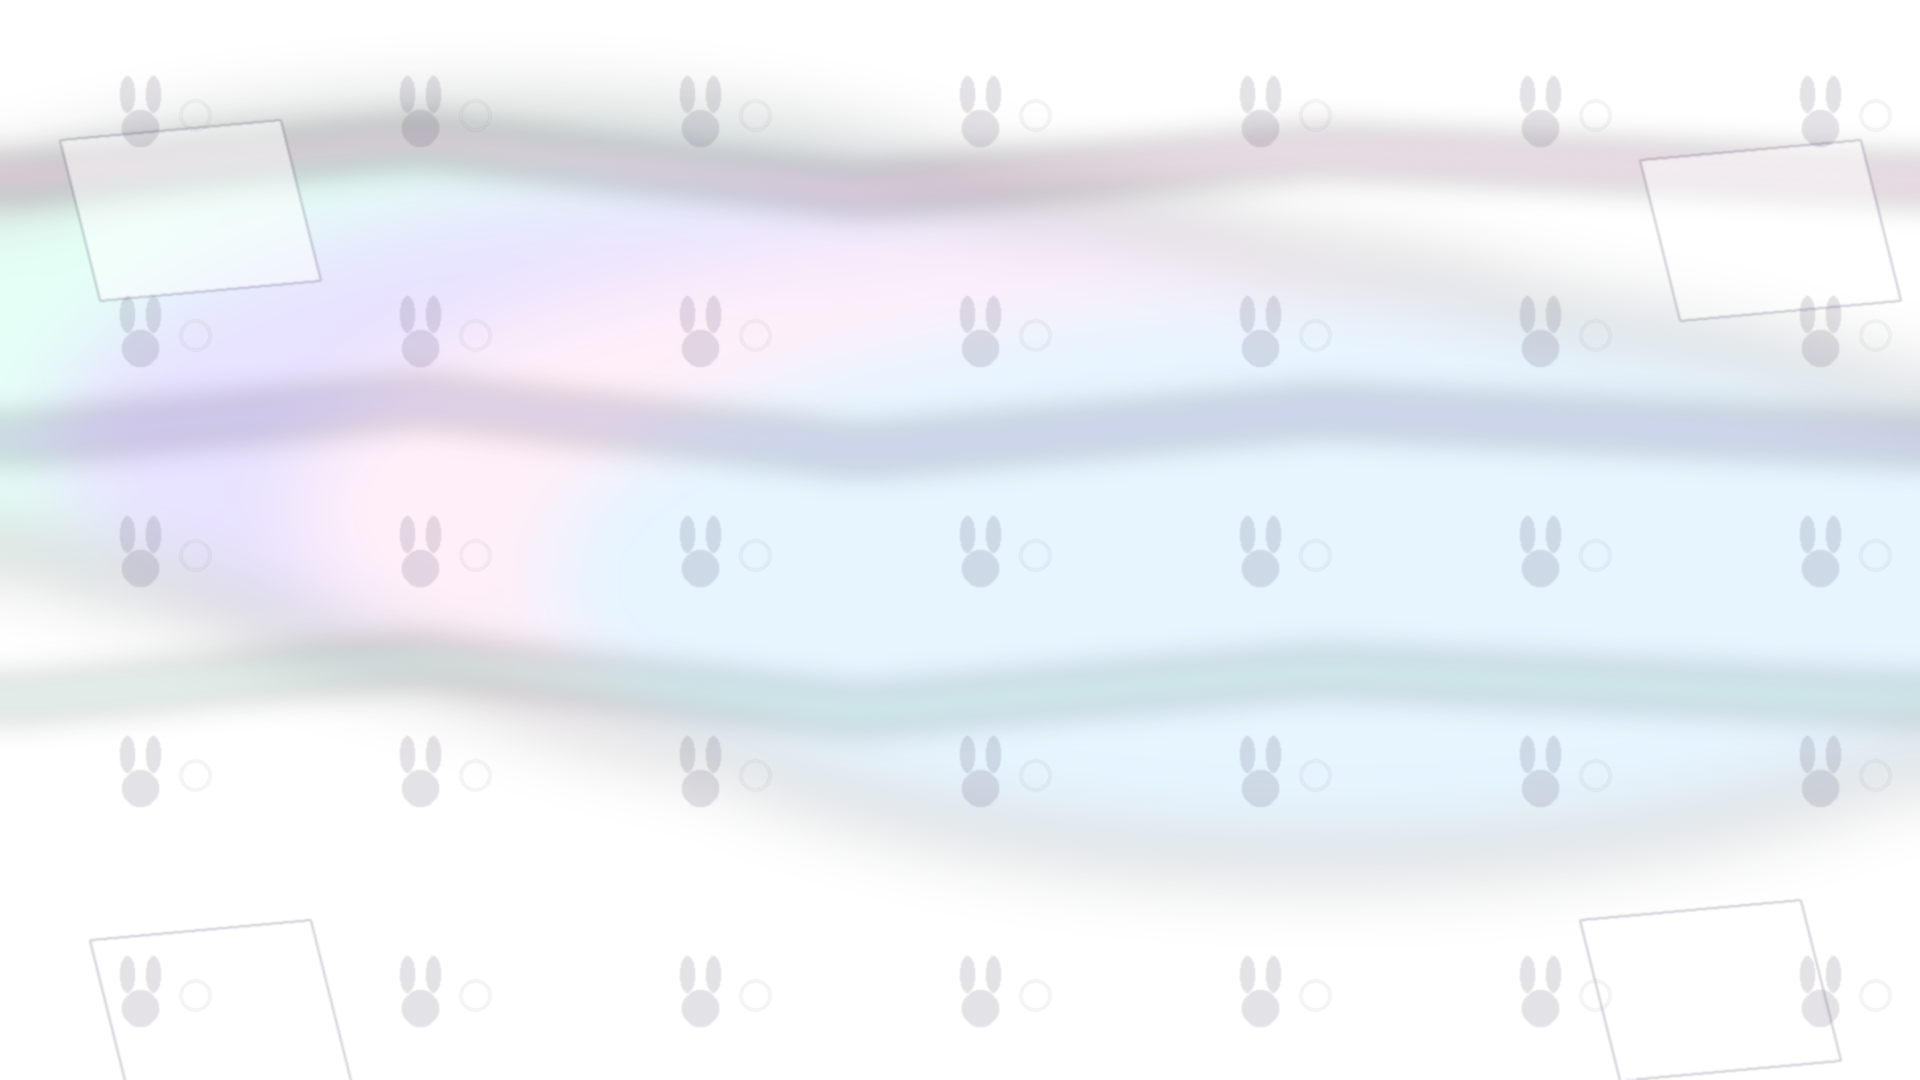
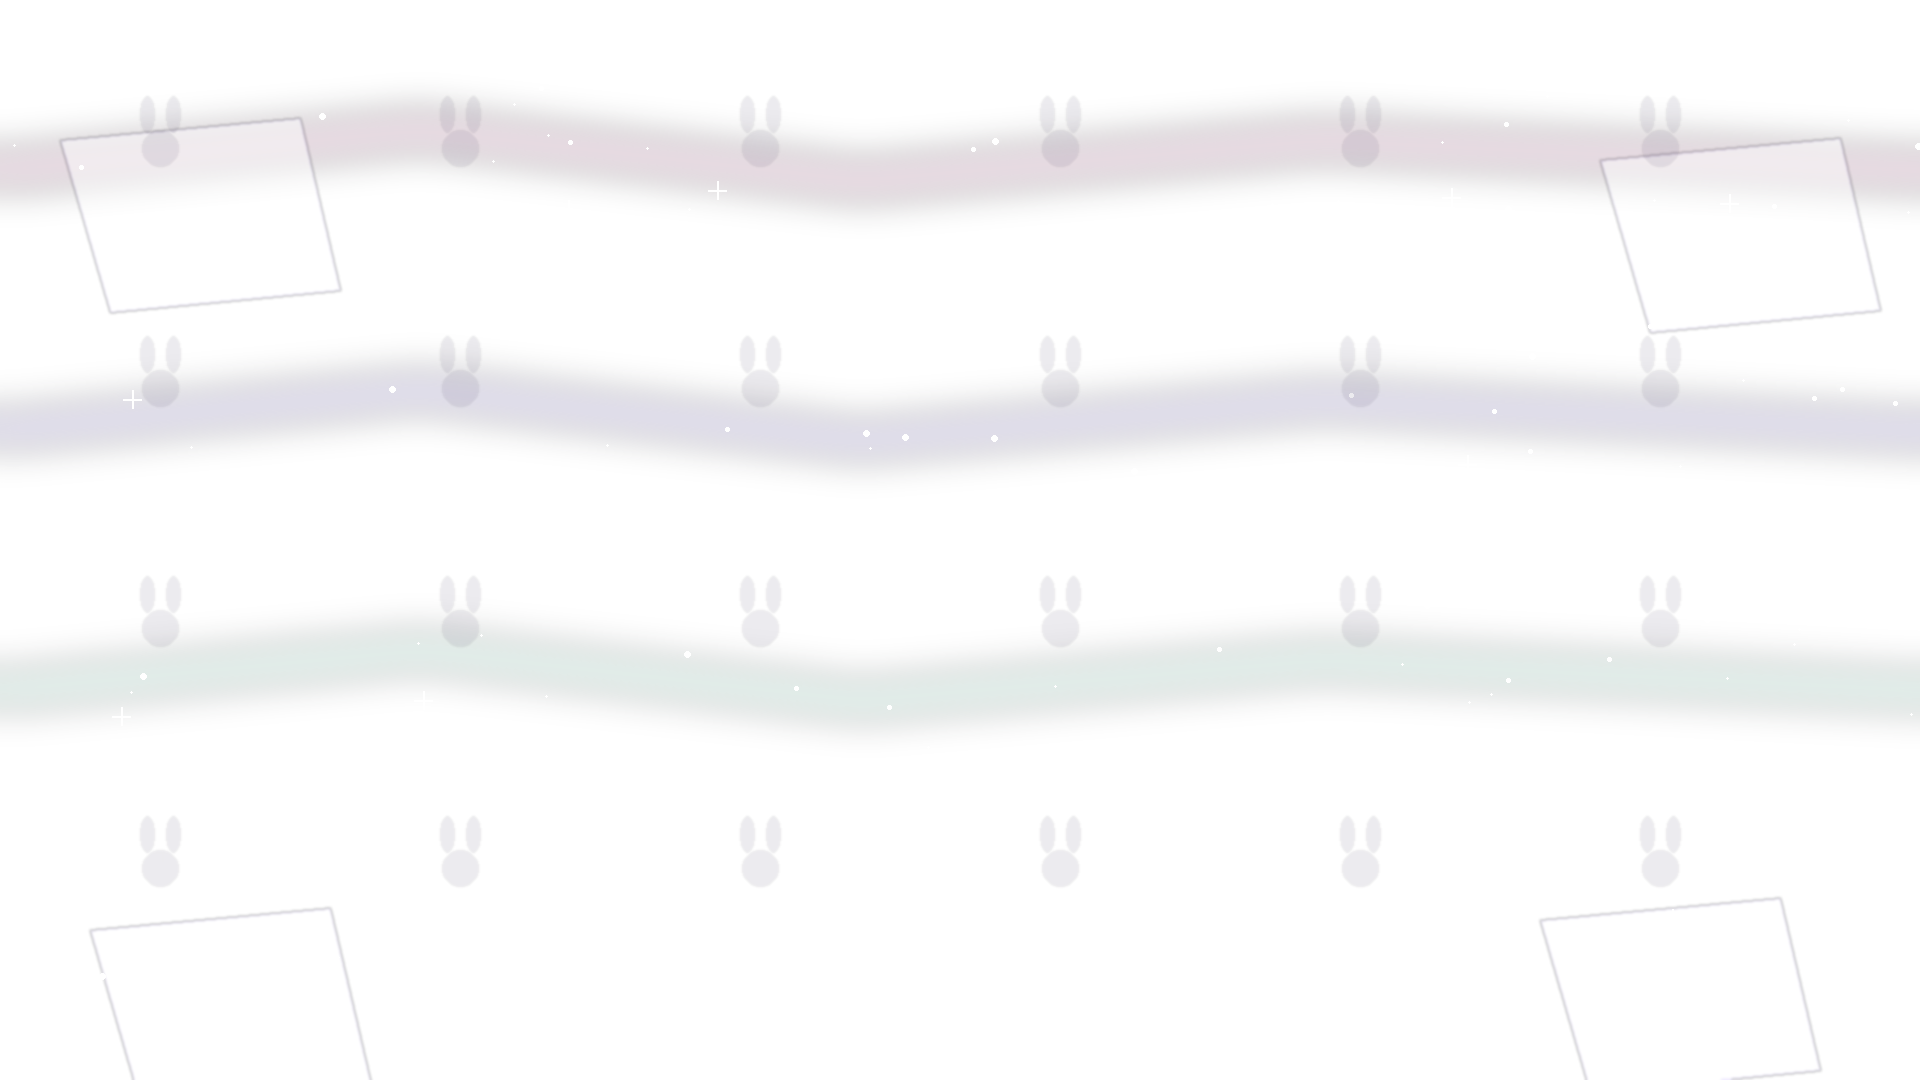
Add files via upload

diff --git a/index.html b/index.html
@@ -8,14 +8,7 @@
   <link rel="preconnect" href="https://fonts.googleapis.com">
   <link rel="preconnect" href="https://fonts.gstatic.com" crossorigin>
   <link href="https://fonts.googleapis.com/css2?family=Jua&family=Gaegu:wght@400;700&family=Gowun+Dodum&family=Nunito:wght@600;800&family=Dongle:wght@400;700&family=Nanum+Pen+Script&display=swap" rel="stylesheet">
-  <script src="https://cdn.jsdelivr.net/npm/html2canvas@1.4.1/dist/html2canvas.min.js">
-  // Show script errors on screen (helps debugging on GitHub Pages)
-  window.addEventListener('error', (e)=>{
-    const msg = (e?.message || '스크립트 오류') + (e?.filename ? (' @ ' + e.filename.split('/').slice(-1)[0] + ':' + e.lineno) : '');
-    try{ showToast('오류: ' + msg); }catch(_){}
-  });
-
-</script>
+  <script src="https://cdn.jsdelivr.net/npm/html2canvas@1.4.1/dist/html2canvas.min.js"></script>
 
   <style>
     :root{
@@ -570,19 +563,7 @@
     }
 
 
-    /* 🎨 Decorative Illustration Background */
-    .decorArt{
-      position:absolute;
-      inset:0;
-      pointer-events:none;
-      background:
-        url('assets/bg_velluna.png') center/cover no-repeat;
-      opacity:.35;
-      mix-blend-mode: soft-light;
-    }
-
-
-    /* 🎀 Frame inner decoration */
+    /* 🎀 Frame inner decoration (JPG friendly) */
     .frame::before{
       content:"";
       position:absolute;
@@ -594,44 +575,33 @@
         inset 0 0 30px rgba(179,156,255,.18),
         0 0 18px rgba(255,214,240,.25);
     }
-
     .frame::after{
       content:"";
       position:absolute;
-      width:120px; height:120px;
-      left:18px; top:18px;
-      background: radial-gradient(circle, rgba(255,255,255,.9) 0 4px, transparent 5px);
-      opacity:.7;
+      inset:34px;
+      border-radius: 200px 200px 18px 18px;
+      border: 1px solid rgba(255,255,255,.42);
       pointer-events:none;
+      opacity:.7;
     }
 
 
-    /* 🌸 Seasonal auto themes */
-    body.theme-spring #capture{
-      background:
-        radial-gradient(1200px 800px at 20% 20%, rgba(255,200,230,.45), transparent 60%),
-        linear-gradient(135deg,#fff0f6,#f3fff7);
+    /* 🖼 Velluna background illustration + mixed decorative overlay */
+    .decorArt{
+      position:absolute;
+      inset:0;
+      pointer-events:none;
+      background: url('assets/bg_velluna.png') center/cover no-repeat;
+      opacity:.60;
+      mix-blend-mode: normal;
     }
-    body.theme-summer #capture{
-      background:
-        radial-gradient(1200px 800px at 80% 20%, rgba(180,240,255,.45), transparent 60%),
-        linear-gradient(135deg,#f0fbff,#f6fff2);
-    }
-    body.theme-winter #capture{
-      background:
-        radial-gradient(1200px 800px at 50% 0%, rgba(200,210,255,.45), transparent 60%),
-        linear-gradient(135deg,#f3f6ff,#eef5ff);
-    }
-
-
-    /* 🎨 Mix overlay (aurora + stars + ribbons + tape + bunny) */
     .mixOverlay{
       position:absolute;
       inset:0;
       pointer-events:none;
       background: url('assets/bg_overlay_mix.png') center/cover no-repeat;
-      opacity:.70;              /* strength */
-      mix-blend-mode: screen;   /* glow */
+      opacity:.55;              /* 은은하게 */
+      mix-blend-mode: screen;   /* 빛나는 느낌 */
     }
 
 </style>
@@ -681,12 +651,17 @@
                   <option value="cover">꽉 채우기(cover)</option>
                 </select>
                 
-                
-
-                
                 <select class="ui" id="themeMode" title="테마 선택">
                   <option value="space" selected>🌙 우주 몽환</option>
                   <option value="pastel">🎀 파스텔</option>
+                </select>
+
+                
+                <select class="ui" id="seasonMode" title="계절 테마">
+                  <option value="spring" selected>🌸 봄</option>
+                  <option value="summer">🌿 여름</option>
+                  <option value="autumn">🍁 가을</option>
+                  <option value="winter">❄ 겨울</option>
                 </select>
 
                 <select class="ui" id="sizePreset" title="해상도">
@@ -1101,7 +1076,25 @@
   });
 
   
+  // Theme switch
+  function applyTheme(mode){
+    const root = document.documentElement;
+    if(mode === "pastel"){
+      root.style.setProperty("--violet","rgba(255,200,240,.6)");
+      root.style.setProperty("--mint","rgba(200,255,230,.6)");
+      root.style.setProperty("--pink","rgba(255,220,245,.6)");
+      root.style.setProperty("--blue","rgba(210,230,255,.6)");
+    }else{
+      root.style.setProperty("--violet","rgba(179,156,255,.72)");
+      root.style.setProperty("--mint","rgba(127,230,200,.62)");
+      root.style.setProperty("--pink","rgba(255,214,240,.58)");
+      root.style.setProperty("--blue","rgba(160,210,255,.52)");
+    }
+    localStorage.setItem("velluna_theme",mode);
   }
+
+  document.getElementById("themeMode")?.addEventListener("change",(e)=>{
+    applyTheme(e.target.value);
   });
 
   // restore theme
@@ -1109,94 +1102,55 @@
   const themeSel = document.getElementById("themeMode");
   if(themeSel){ themeSel.value = savedTheme; applyTheme(savedTheme); }
 
+
   
-  // 🌸 Season + Theme background (JPG-friendly, no animation)
-  function getSeason(){
-    const override = localStorage.getItem("velluna_season_mode") || "auto";
-    if(override !== "auto") return override;
+  // 🌸 Season switch (JPG 전용)
+  const LS_SEASON = "velluna_season_v14";
 
-    const m = new Date().getMonth()+1;
-    if(m>=3 && m<=5) return "spring";
-    if(m>=6 && m<=8) return "summer";
-    if(m>=9 && m<=11) return "autumn";
-    if(m===12 || m<=2) return "winter";
-    return "spring";
+  function seasonPalette(season){
+    // keep it cute + readable
+    const map = {
+      spring: { violet:"rgba(255,190,225,.56)", mint:"rgba(190,255,230,.52)", pink:"rgba(255,220,245,.50)", blue:"rgba(210,235,255,.46)", baseA:"#fff3fb", baseB:"#f4fffb", overlay:.55 },
+      summer: { violet:"rgba(185,215,255,.52)", mint:"rgba(175,255,240,.54)", pink:"rgba(255,225,235,.40)", blue:"rgba(185,235,255,.54)", baseA:"#f0fbff", baseB:"#f6fff2", overlay:.52 },
+      autumn: { violet:"rgba(230,190,255,.40)", mint:"rgba(255,225,180,.46)", pink:"rgba(255,210,200,.42)", blue:"rgba(220,210,255,.38)", baseA:"#fff6ee", baseB:"#fffdf6", overlay:.50 },
+      winter: { violet:"rgba(200,210,255,.54)", mint:"rgba(210,255,245,.40)", pink:"rgba(255,235,250,.34)", blue:"rgba(205,225,255,.54)", baseA:"#f3f6ff", baseB:"#eef5ff", overlay:.56 },
+    };
+    return map[season] || map.spring;
   }
 
-  function buildBackground(theme, season){
-    // theme palettes
-    const P = {
-      space: {
-        violet: "rgba(179,156,255,.72)",
-        mint:   "rgba(127,230,200,.62)",
-        pink:   "rgba(255,214,240,.58)",
-        blue:   "rgba(160,210,255,.52)",
-        baseA:  "#f6f3ff",
-        baseB:  "#e7fff7",
-      },
-      pastel: {
-        violet: "rgba(255,200,240,.62)",
-        mint:   "rgba(200,255,230,.62)",
-        pink:   "rgba(255,230,245,.60)",
-        blue:   "rgba(210,230,255,.58)",
-        baseA:  "#fff6fb",
-        baseB:  "#f4fffb",
-      }
-    }[theme] || null;
-
-    // season accent overlay
-    const S = {
-      spring: "radial-gradient(1000px 650px at 18% 18%, rgba(255,190,220,.28), transparent 62%)",
-      summer: "radial-gradient(1000px 650px at 82% 18%, rgba(170,235,255,.28), transparent 62%)",
-      winter: "radial-gradient(1000px 650px at 50% 0%, rgba(210,220,255,.30), transparent 62%)",
-      autumn: "radial-gradient(1000px 650px at 20% 20%, rgba(255,200,150,.28), transparent 62%)",
-    }[season] || "";
-
-    return [
-      S,
-      `radial-gradient(1400px 1000px at 10% 18%, ${P.violet}, transparent 64%)`,
-      `radial-gradient(1100px 820px at 90% 24%, ${P.mint}, transparent 62%)`,
-      `radial-gradient(1100px 820px at 52% 104%, ${P.pink}, transparent 60%)`,
-      `radial-gradient(900px 650px at 70% 72%, ${P.blue}, transparent 62%)`,
-      `linear-gradient(135deg, ${P.baseA}, ${P.baseB})`
-    ].filter(Boolean).join(",");
-  }
-
-  function applyThemeMode(mode){
-    localStorage.setItem("velluna_theme_mode", mode);
+  function applySeasonMode(season){
+    const p = seasonPalette(season);
     const captureEl = document.getElementById("capture");
-    if(!captureEl) return;
-    const season = getSeason();
-    captureEl.style.background = buildBackground(mode, season);
+    if(captureEl){
+      captureEl.style.background = [
+        `radial-gradient(1400px 1000px at 10% 18%, ${p.violet}, transparent 64%)`,
+        `radial-gradient(1100px 820px at 90% 24%, ${p.mint}, transparent 62%)`,
+        `radial-gradient(1100px 820px at 52% 104%, ${p.pink}, transparent 60%)`,
+        `radial-gradient(900px 650px at 70% 72%, ${p.blue}, transparent 62%)`,
+        `linear-gradient(135deg, ${p.baseA}, ${p.baseB})`
+      ].join(",");
+    }
+    // overlay strength
+    const overlayEl = document.querySelector(".mixOverlay");
+    if(overlayEl) overlayEl.style.opacity = String(p.overlay);
+    localStorage.setItem(LS_SEASON, season);
   }
 
-  // Theme UI wiring
-  const themeSel = document.getElementById("themeMode");
-  if(themeSel){
-    themeSel.addEventListener("change", (e)=> applyThemeMode(e.target.value));
-    const saved = localStorage.getItem("velluna_theme_mode") || "space";
-    themeSel.value = saved;
-    applyThemeMode(saved);
-  }
-
-  // Season UI wiring
+  // Wire UI
   const seasonSel = document.getElementById("seasonMode");
   if(seasonSel){
-    seasonSel.addEventListener("change", (e)=>{
-      localStorage.setItem("velluna_season_mode", e.target.value);
-      const themeNow = (document.getElementById("themeMode")?.value) || (localStorage.getItem("velluna_theme_mode") || "space");
-      applyThemeMode(themeNow);
-    });
-    const savedS = localStorage.getItem("velluna_season_mode") || "auto";
-    seasonSel.value = savedS;
+    seasonSel.addEventListener("change", (e)=> applySeasonMode(e.target.value));
+    const saved = localStorage.getItem(LS_SEASON) || "spring";
+    seasonSel.value = saved;
+    applySeasonMode(saved);
+  }else{
+    // if UI missing, still apply stored season
+    applySeasonMode(localStorage.getItem(LS_SEASON) || "spring");
   }
-
 
 
   // Init
   buildThumbs();
-
-  applySeason();
 
   // Restore fit/size
   const savedFit = localStorage.getItem(LS_FIT) || "contain";
@@ -1222,13 +1176,6 @@
 
   // If no days at all, add a friendly starter day (optional)
   // (leave empty to match your request: "원하는 요일만 추가")
-
-  // Show script errors on screen (helps debugging on GitHub Pages)
-  window.addEventListener('error', (e)=>{
-    const msg = (e?.message || '스크립트 오류') + (e?.filename ? (' @ ' + e.filename.split('/').slice(-1)[0] + ':' + e.lineno) : '');
-    try{ showToast('오류: ' + msg); }catch(_){}
-  });
-
 </script>
 </body>
 </html>

diff --git a/README.md b/README.md
@@ -29,29 +29,9 @@
 - 스케줄 내용 추가 후 수정 불가(고정형)
 - 내용 폰트 귀여움 강화 (Gaegu 기반)
 
-## v10 변경
-- JPG 전용으로 애니메이션 제거
-- 배경에 일러스트 느낌 데코 아트 추가
-
-## v11 변경
-- 프레임 내부 장식 추가
-- 계절 자동 테마 (봄/여름/겨울)
-- 벨루나 전용 배경 일러 제작
-- 우주/파스텔 수동 스위치 제거
-
-
-## v11 theme 추가
-- 우주 몽환 / 파스텔 테마 스위치 복구
-- 계절(봄/여름/겨울) 자동 분위기 반영(배경 색감에 반영)
-
-
-## season 수동 선택 추가
-- 계절 자동/봄/여름/겨울 수동 선택 드롭다운 추가
-
-
-## 가을 테마 추가
-- 🍁 가을 수동 선택 및 자동 감지(9~11월)
-
-
-## v13 배경 장식 추가
-- 전체 화면(A)용 혼합 장식 오버레이(bg_overlay_mix.png) 추가 (우주+토끼+리본+테이프)
+## v14 (v9 기반) 변경
+- JPG 전용: 애니메이션 제거
+- 벨루나 전용 일러 배경(bg_velluna.png) 추가
+- 기본 배경 위에 혼합 장식 오버레이(bg_overlay_mix.png) 전체 화면(A) 은은 적용
+- 프레임 내부 장식(점선/글로우) 추가
+- 계절 테마 스위치(봄/여름/가을/겨울) 추가 (배경 톤 변경)
